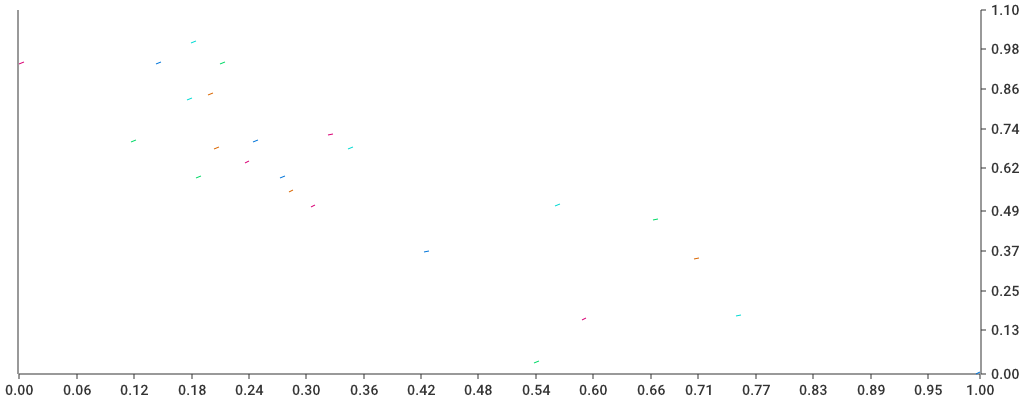
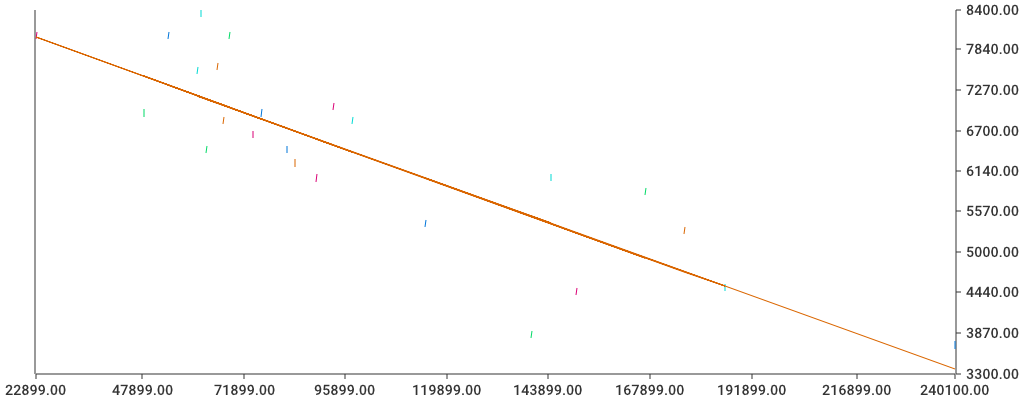
add readme

diff --git a/src/courbe/courbe.go b/src/courbe/courbe.go
@@ -7,22 +7,24 @@ import (
 	"types"
 	"os/exec"
 	"fmt"
+	"maths"
 )
 
-func Init(Data types.Datas, Histo map[int]types.HistoData) {
+func Init(Data types.Datas, Histo types.HistoData) {
 
-	All := AddPoint(Data, []chart.Series{})
+	All := AddPoint(Data, []chart.Series{}, Histo)
+	All = AddCourbe(Data, All, Histo)
 	Draw(All)
 }
 
-func AddPoint(Data types.Datas, All []chart.Series) ([]chart.Series) {
+func AddPoint(Data types.Datas, All []chart.Series, Histo types.HistoData) ([]chart.Series) {
 
 	var tabx, taby, tmp []float64
 
 	for i := 0; i < len(Data.Kilometre); i++ {
-		
-		tabx = append(tabx, Data.Kilometre[i], Data.Kilometre[i] + 0.005)
-		taby = append(taby, Data.Price[i], Data.Price[i] + 0.005)
+
+		tabx = append(tabx, Data.Kilometre[i], Data.Kilometre[i] + 100)
+		taby = append(taby, Data.Price[i], Data.Price[i] + 100)
 		
 		All = append(All, chart.ContinuousSeries {
 	        XValues: tabx,
@@ -35,7 +37,26 @@ func AddPoint(Data types.Datas, All []chart.Series) ([]chart.Series) {
 	return (All)
 }
 
-/*func Normalize(Data types.Datas, kilometrage float64) (float64) {
+func AddCourbe(Data types.Datas, All []chart.Series, Histo types.HistoData) ([]chart.Series) {
+
+	var tabx, taby []float64
+
+	for i := 0; i < len(Data.Kilometre); i++ {
+
+		x := Histo.Theta0 + (Histo.Theta1 * Normalize(Data, Data.Kilometre[i]))
+		y := Denormalize(Data, x)
+
+		tabx = append(tabx, Data.Kilometre[i])
+		taby = append(taby, y)
+	}
+	All = append(All, chart.ContinuousSeries {
+	    XValues: tabx,
+	    YValues: taby,
+	})
+	return (All)	
+}
+
+func Normalize(Data types.Datas, kilometrage float64) (float64) {
 
 	return ((kilometrage - maths.Min(Data.Kilometre)) / (maths.Max(Data.Kilometre) - maths.Min(Data.Kilometre)))
 }
@@ -43,11 +64,9 @@ func AddPoint(Data types.Datas, All []chart.Series) ([]chart.Series) {
 func Denormalize(Data types.Datas, prix float64) (float64) {
 
 	return ((prix * (maths.Max(Data.Price) - maths.Min(Data.Price))) + maths.Min(Data.Price))
-}*/
+}
 
 func Draw(All []chart.Series) {
-
-	fmt.Println(All)
 
 	var cmd *exec.Cmd
 

diff --git a/src/predict/predict.go b/src/predict/predict.go
@@ -7,6 +7,7 @@ import(
 	"Response"
 	"input"
 	"maths"
+	"courbe"
 )
 
 func main() {
@@ -16,11 +17,16 @@ func main() {
 	file.ReadFile(&Csv)
 	file.ReadResp(&Data)
 
-	kilometrage := input.ReadSTDIN()
+	kilometrage, _ := input.ReadSTDIN("Choose a km", 0)
 	tmp_kilometrage := Normalize(Csv, kilometrage)
 
 	res := Data.Theta0 + (Data.Theta1 * tmp_kilometrage)
 	Response.Sucess(fmt.Sprintf("For %f km : %f $\n", kilometrage, Denormalize(Csv, res)))
+
+	_, Graph := input.ReadSTDIN("See graph : [y] yes / [n] no", 1)
+	if Graph == "y" {
+		courbe.Init(Csv, Data)
+	}
 }
 
 func Normalize(Data types.Datas, kilometrage float64) (float64) {

diff --git a/src/input/input.go b/src/input/input.go
@@ -8,14 +8,17 @@ import (
 	"strconv"
 )
 
-func ReadSTDIN() (float64) {
+func ReadSTDIN(str string, t int) (float64, string) {
 
-	fmt.Println("Choose a km")
+	fmt.Println(str)
 	reader := bufio.NewReader(os.Stdin)
 	text, _ := reader.ReadString('\n')
 	input := ReplaceWhiteSpace(text)
-	f, _ := strconv.ParseFloat(input, 64)
-	return (f)
+	if t == 0 {
+		f, _ := strconv.ParseFloat(input, 64)
+		return f, ""
+	}
+	return 0, input
 }
 
 func ReplaceWhiteSpace(text string) (string) {

diff --git a/src/train/train.go b/src/train/train.go
@@ -5,7 +5,6 @@ import (
 	"math"
 	"types"
 	"maths"
-	"courbe"
 )
 
 func main() {
@@ -17,7 +16,6 @@ func main() {
 	Histo := types.Historique{}
 	Train(&L, Data, &Histo)
 	file.Save(Histo.Table)
-	courbe.Init(Data, Histo.Table)
 }
 
 func Train(L *types.Learning, Data types.Datas, Histo *types.Historique) {

diff --git a/src/file/file.go b/src/file/file.go
@@ -73,7 +73,6 @@ func check(e error) {
         Response.Print(fmt.Sprintf("%s\n", e))
     } else {
     	Response.Sucess("File created")
-    	Response.Sucess("Drawing courbe")
     }
 }
 
